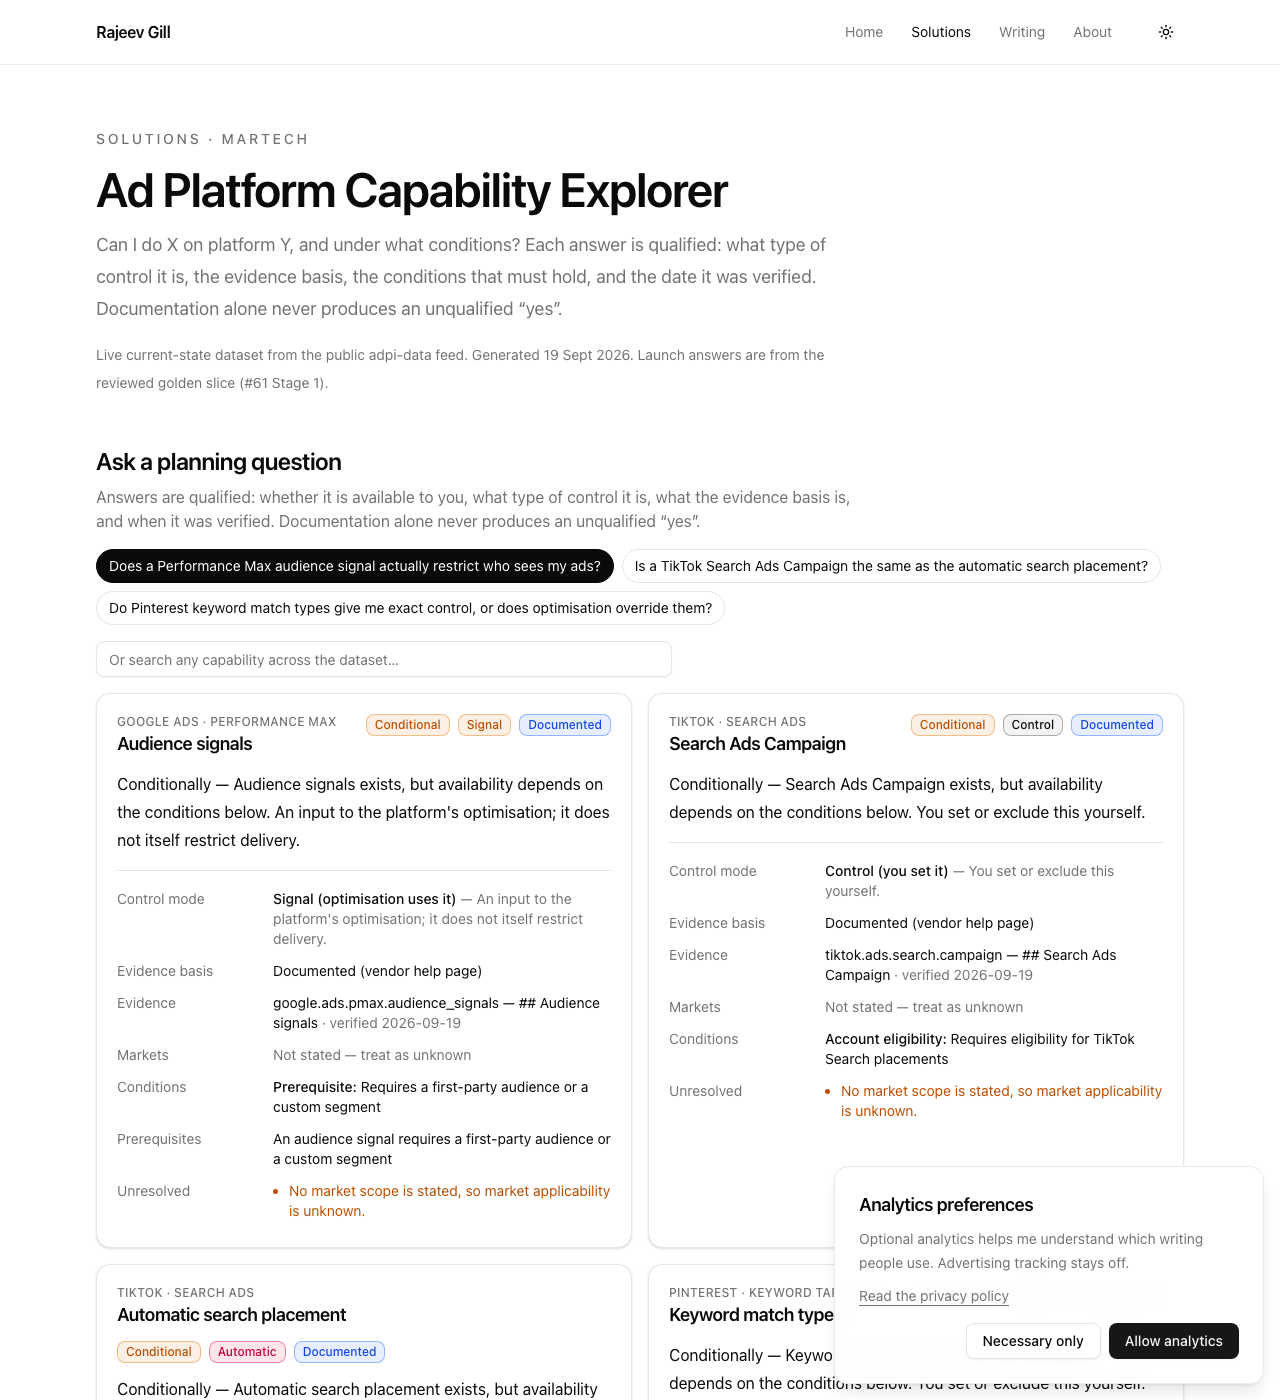
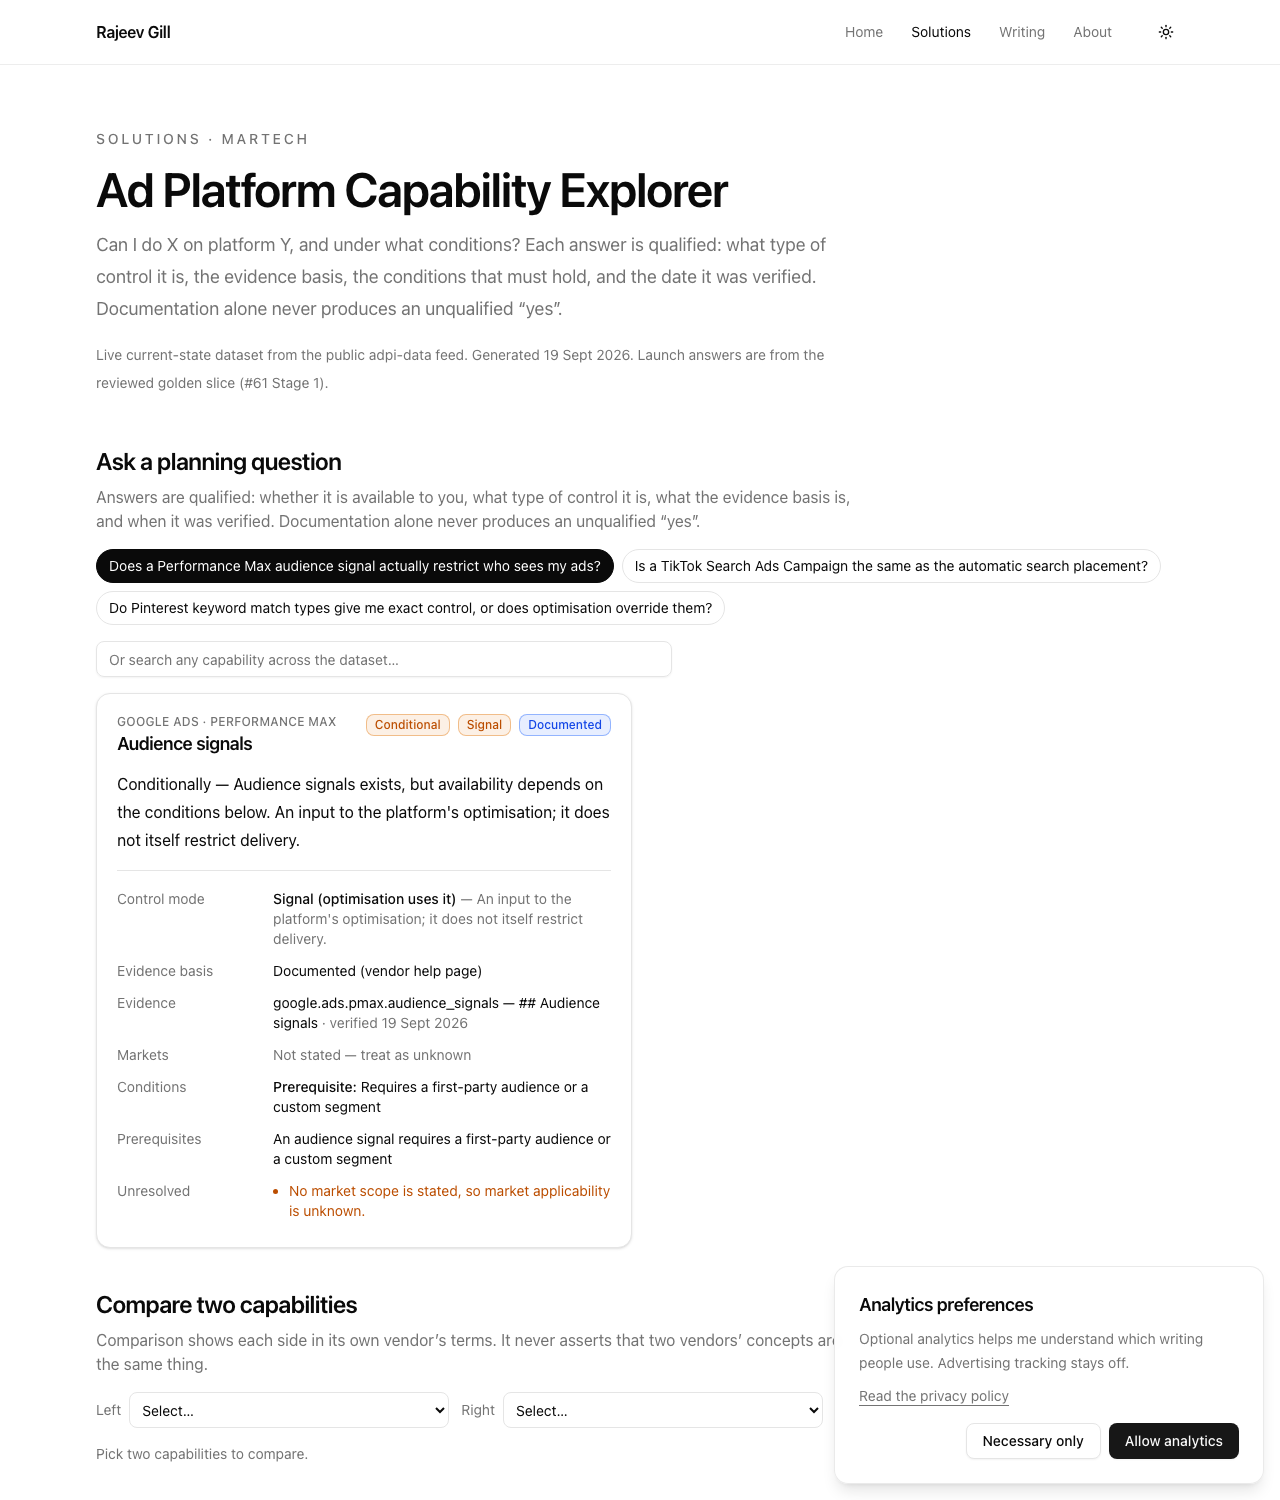
fix(solutions): review 1 findings — correct unresolved state, honest filters, exact question join
F1 (P1): the unresolved panel rendered alongside question-driven answers because
an empty query fell back to the literal needle 'capability', which no record
matches. The panel now shows only when the user's own non-empty search returns
nothing, so a question view never contradicts itself.

F2 (P1): the Availability filter compared the raw field while the column
rendered the qualified outcome, so filtering 'conditional' excluded rows the
badge labelled Conditional. The filter now uses qualify(c).outcome, and the
Behaviour filter includes not_applicable.

F3 (P2): question-to-record matching used an id suffix guess with a silent
six-record fallback. It now joins on the stable question_ids field (emitted by
the golden slice), and a question with no records renders an explicit
data-contract-failure state instead of unrelated capabilities.

F4 (P2): added dataset delivery tests — live-fetch failure, non-OK status,
malformed/unversioned payload, missing record fields, successful merge, and
provenance carry-through — plus question-join integrity tests.

F5 (P3): removed the dead datasetStats export; verification dates are formatted
consistently (answer cards and table) instead of raw ISO strings.

diff --git a/src/components/adpi/planner.tsx b/src/components/adpi/planner.tsx
@@ -5,7 +5,7 @@ import { useMemo, useState } from "react"
 import { Input } from "@/components/ui/input"
 import { QualifiedAnswerCard } from "./qualified-answer"
 import { compare, qualify } from "@/lib/adpi/qualify"
-import type { AdpiDataset, Capability, PlannerQuestion } from "@/lib/adpi/types"
+import type { Capability, PlannerQuestion } from "@/lib/adpi/types"
 
 interface PlannerProps {
   capabilities: Capability[]
@@ -28,11 +28,11 @@ export function Planner({ capabilities, questions }: PlannerProps) {
   const matches = useMemo(() => {
     const question = questions.find((q) => q.id === activeQuestion)
     if (question) {
-      // Prefer the reviewed launch cases for a launch question.
-      const reviewed = question.cases
-        .map((caseId) => capabilities.find((c) => c.id.endsWith(caseId)))
-        .filter((c): c is Capability => Boolean(c))
-      if (reviewed.length > 0) return reviewed
+      // Deterministic, exact join: each reviewed record declares the question
+      // ids it answers (the same `question_ids` the golden slice emits), so a
+      // broken link yields an empty set and an explicit unresolved state
+      // rather than silently substituting unrelated capabilities.
+      return capabilities.filter((c) => c.question_ids?.includes(question.id))
     }
     const needle = query.trim().toLowerCase()
     if (!needle) return capabilities.slice(0, 6)
@@ -46,14 +46,21 @@ export function Planner({ capabilities, questions }: PlannerProps) {
       .slice(0, 12)
   }, [activeQuestion, capabilities, questions, query])
 
-  // A deliberate unresolved case: a capability the dataset does not cover.
-  const unresolvedExample = useMemo(() => {
-    const needle = query.trim().toLowerCase() || "capability"
-    const matchesSearch = capabilities.some((c) =>
-      [c.name, c.vendor, c.platform].join(" ").toLowerCase().includes(needle),
+  // A deliberate unresolved state is shown ONLY when the user's own search
+  // returns nothing. It must never appear alongside question-driven answers
+  // (that was the review's contradictory-state bug), so it is gated on a
+  // non-empty query and an empty match set.
+  const unresolvedSearch = useMemo(() => {
+    const needle = query.trim().toLowerCase()
+    if (!needle) return null
+    const matched = capabilities.some((c) =>
+      [c.name, c.vendor, c.platform, c.vendor_term ?? ""]
+        .join(" ")
+        .toLowerCase()
+        .includes(needle),
     )
-    return matchesSearch ? null : { query: query.trim() || "capability", question: questions.find((q) => q.id === activeQuestion) }
-  }, [capabilities, query, questions, activeQuestion])
+    return matched ? null : needle
+  }, [capabilities, query])
 
   return (
     <div className="space-y-10">
@@ -104,11 +111,20 @@ export function Planner({ capabilities, questions }: PlannerProps) {
           ))}
         </div>
 
-        {matches.length === 0 || unresolvedExample ? (
-          <div className="rounded-xl border border-dashed p-5">
+        {activeQuestion && matches.length === 0 ? (
+          <div className="rounded-xl border border-dashed border-amber-600/50 p-5" data-analytics-item-type="question_unresolved">
+            <p className="font-medium">No reviewed records for this question</p>
+            <p className="mt-1 text-sm text-muted-foreground">
+              The selected question has no matching capability records in the published dataset.
+              This is a data-contract failure surfaced explicitly, not hidden behind a fallback.
+            </p>
+          </div>
+        ) : null}
+        {unresolvedSearch ? (
+          <div className="rounded-xl border border-dashed p-5" data-analytics-item-type="unresolved_state">
             <p className="font-medium">Unresolved — no evidenced answer</p>
             <p className="mt-1 text-sm text-muted-foreground">
-              No capability in the published dataset matches “{query || "this query"}”. This is an
+              No capability in the published dataset matches “{unresolvedSearch}”. This is an
               explicit unresolved state, not a default: the product will not assert availability it
               has no evidence for. A planner should treat this as “not covered yet”.
             </p>
@@ -188,11 +204,4 @@ function ComparisonView({ left, right }: { left: Capability; right: Capability }
       </div>
     </div>
   )
-}
-
-export function datasetStats(dataset: AdpiDataset) {
-  return {
-    records: dataset.capabilities.length,
-    generatedAt: dataset.generated_at,
-  }
 }

diff --git a/src/lib/adpi/__tests__/dataset.test.ts b/src/lib/adpi/__tests__/dataset.test.ts
@@ -1,0 +1,89 @@
+import { afterEach, describe, expect, it, vi } from "vitest"
+
+import { bundledDataset, getAdpiDataset } from "../dataset"
+
+const REAL_FETCH = globalThis.fetch
+
+afterEach(() => {
+  globalThis.fetch = REAL_FETCH
+  vi.restoreAllMocks()
+})
+
+function mockFetchOnce(handler: () => Promise<Response> | Response) {
+  globalThis.fetch = vi.fn(handler) as unknown as typeof fetch
+}
+
+describe("getAdpiDataset", () => {
+  it("falls back to the bundled reviewed slice when the live fetch fails", async () => {
+    mockFetchOnce(() => Promise.reject(new Error("network down")))
+    const resolved = await getAdpiDataset()
+    expect(resolved.live).toBe(false)
+    expect(resolved.dataset.capabilities.length).toBe(bundledDataset.capabilities.length)
+    expect(resolved.questions.length).toBe(3)
+  })
+
+  it("falls back when the live endpoint returns a non-OK status", async () => {
+    mockFetchOnce(() => new Response("nope", { status: 503 }))
+    const resolved = await getAdpiDataset()
+    expect(resolved.live).toBe(false)
+  })
+
+  it("falls back on a malformed or unversioned live payload", async () => {
+    mockFetchOnce(() => new Response(JSON.stringify({ hello: "world" }), { status: 200 }))
+    const resolved = await getAdpiDataset()
+    expect(resolved.live).toBe(false)
+  })
+
+  it("falls back when the payload lacks the required record fields", async () => {
+    mockFetchOnce(
+      () =>
+        new Response(
+          JSON.stringify({ schema_version: 2, generated_at: "t", capabilities: [{ id: "x" }] }),
+          { status: 200 },
+        ),
+    )
+    const resolved = await getAdpiDataset()
+    expect(resolved.live).toBe(false)
+  })
+
+  it("uses the live payload when it is well-formed and keeps the reviewed records", async () => {
+    const liveCapability = {
+      id: "some.vendor.new.capability",
+      vendor: "Vendor",
+      platform: "Product",
+      name: "New capability",
+      capability_type: "targeting",
+      maturity: "live",
+      control_mode: "control",
+      evidence_basis: "documented",
+      availability: "conditional",
+      evidence: [{ source_id: "some.vendor", source_url: "https://example.com" }],
+    }
+    mockFetchOnce(
+      () =>
+        new Response(
+          JSON.stringify({
+            schema_version: 2,
+            generated_at: "2026-09-19T00:00:00+00:00",
+            capabilities: [liveCapability],
+          }),
+          { status: 200 },
+        ),
+    )
+    const resolved = await getAdpiDataset()
+    expect(resolved.live).toBe(true)
+    // The reviewed launch records are still present, merged with the live one.
+    expect(resolved.dataset.capabilities.some((c) => c.id === liveCapability.id)).toBe(true)
+    expect(resolved.dataset.capabilities.length).toBeGreaterThan(bundledDataset.capabilities.length)
+    // Questions always come from the reviewed bundle.
+    expect(resolved.questions.length).toBe(3)
+  })
+
+  it("carries the reviewed provenance through the resolved dataset", async () => {
+    mockFetchOnce(() => Promise.reject(new Error("down")))
+    const resolved = await getAdpiDataset()
+    expect(resolved.dataset.provenance?.kind).toBe("reviewed_launch_slice")
+    expect(resolved.dataset.provenance?.reviewed_by).toBeTruthy()
+    expect(resolved.dataset.provenance?.extraction_prompt_sha256).toBeTruthy()
+  })
+})

diff --git a/src/components/adpi/master-table.tsx b/src/components/adpi/master-table.tsx
@@ -28,7 +28,22 @@ const CAPABILITY_TYPES = [
   "format",
 ] as const
 
-const CONTROL_MODES = ["all", "control", "signal", "automatic", "recommendation", "reporting_only"] as const
+const CONTROL_MODES = [
+  "all",
+  "control",
+  "signal",
+  "automatic",
+  "recommendation",
+  "reporting_only",
+  "not_applicable",
+] as const
+
+function formatVerified(value: string | undefined): string {
+  if (!value) return "—"
+  const date = new Date(value)
+  if (Number.isNaN(date.getTime())) return value
+  return date.toLocaleDateString("en-GB", { day: "numeric", month: "short", year: "numeric" })
+}
 
 export function MasterTable({ capabilities }: { capabilities: Capability[] }) {
   const [query, setQuery] = useState("")
@@ -49,7 +64,9 @@ export function MasterTable({ capabilities }: { capabilities: Capability[] }) {
       if (vendor !== "all" && c.vendor !== vendor) return false
       if (type !== "all" && c.capability_type !== type) return false
       if (control !== "all" && c.control_mode !== control) return false
-      if (availability !== "all" && c.availability !== availability) return false
+      // Filter on the *qualified* outcome — the same value the Availability
+      // column renders — not the raw field, so the filter and the badge agree.
+      if (availability !== "all" && qualify(c).outcome !== availability) return false
       if (!needle) return true
       return [c.name, c.vendor, c.platform, c.capability_type, c.vendor_term ?? ""]
         .join(" ")
@@ -96,7 +113,9 @@ export function MasterTable({ capabilities }: { capabilities: Capability[] }) {
       {
         accessorKey: "last_verified_at",
         header: "Verified",
-        cell: ({ getValue }) => <span className="text-sm">{String(getValue() ?? "—")}</span>,
+        cell: ({ getValue }) => (
+          <span className="text-sm">{formatVerified(getValue() as string | undefined)}</span>
+        ),
       },
     ],
     [],

diff --git a/src/components/adpi/qualified-answer.tsx b/src/components/adpi/qualified-answer.tsx
@@ -2,6 +2,13 @@ import { BasisBadge, ControlBadge, OutcomeBadge } from "./badges"
 import { groupConditions } from "@/lib/adpi/qualify"
 import type { QualifiedAnswer } from "@/lib/adpi/qualify"
 
+function formatVerified(value: string): string {
+  const date = new Date(value)
+  return Number.isNaN(date.getTime())
+    ? value
+    : date.toLocaleDateString("en-GB", { day: "numeric", month: "short", year: "numeric" })
+}
+
 function Row({ label, children }: { label: string; children: React.ReactNode }) {
   return (
     <div className="grid grid-cols-[9rem_1fr] gap-3 py-1.5 text-sm">
@@ -45,9 +52,7 @@ export function QualifiedAnswerCard({ answer }: { answer: QualifiedAnswer }) {
         <Row label="Evidence">
           {answer.evidenceRef ?? "No evidence reference recorded"}{" "}
           {answer.verifiedAt ? (
-            <span className="text-muted-foreground">
-              · verified {answer.verifiedAt}
-            </span>
+            <span className="text-muted-foreground">· verified {formatVerified(answer.verifiedAt)}</span>
           ) : (
             <span className="text-muted-foreground">· verification date unknown</span>
           )}

diff --git a/src/lib/adpi/__tests__/qualify.test.ts b/src/lib/adpi/__tests__/qualify.test.ts
@@ -122,3 +122,28 @@ describe("the reviewed launch slice", () => {
     }
   })
 })
+
+describe("question-to-record join (#157 review F3)", () => {
+  it("joins on the stable question_ids field, not an id suffix guess", () => {
+    for (const question of bundledDataset.questions ?? []) {
+      const matched = bundledDataset.capabilities.filter((c) => c.question_ids?.includes(question.id))
+      expect(matched.length).toBeGreaterThan(0)
+    }
+  })
+
+  it("has no record claiming a question that does not exist", () => {
+    const questionIds = new Set((bundledDataset.questions ?? []).map((q) => q.id))
+    for (const capability of bundledDataset.capabilities) {
+      for (const id of capability.question_ids ?? []) {
+        expect(questionIds.has(id)).toBe(true)
+      }
+    }
+  })
+
+  it("keeps question_ids stable and unique per record", () => {
+    for (const capability of bundledDataset.capabilities) {
+      const ids = capability.question_ids ?? []
+      expect(new Set(ids).size).toBe(ids.length)
+    }
+  })
+})
